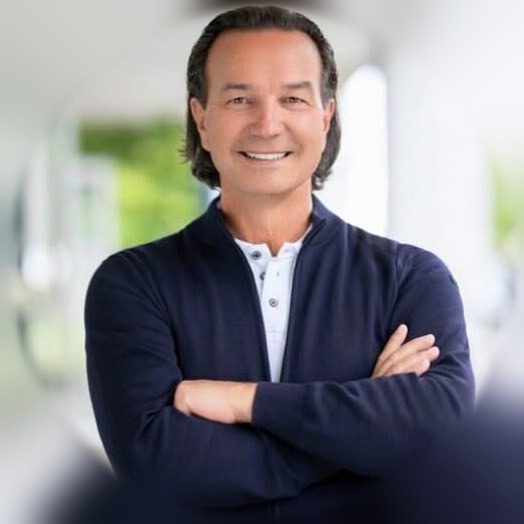
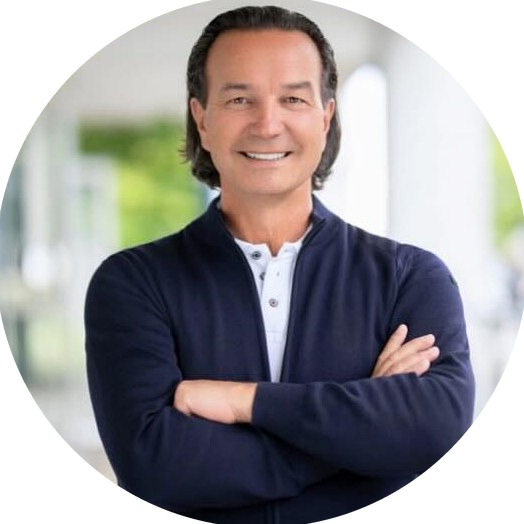
Portraet als Profilkreis mit scharfer Kante
Die weichgezeichnet fortgesetzten Ecken sahen matschig aus, und der
Rand blieb dadurch unscharf. Der Kreis ist die Vorlage: alles
ausserhalb ist jetzt weiss, beschnitten wird ueber border-radius 50%
im Browser. Sauberes Foto liegt bis Radius 266 px vor, beschnitten
wird bei 262 px, das Lila beginnt erst bei 271 px.

Gilt ueber .portraet fuer beide Stellen, Startseite und ueber.html.

diff --git a/css/base.css b/css/base.css
@@ -733,10 +733,15 @@ html[data-statisch="ja"] .messfeld__marke .punkt { animation: none; }
 @media (max-width: 60rem) { .makler { grid-template-columns: 1fr; } }
 
 /* ── Das Porträt ───────────────────────────────────────────────────
-   Ein Foto, gerahmt wie ein Foto: weiche Ecken, eine Haarlinie, der
-   gleiche sehr weiche Schatten wie am Messfeld. Vorher stand hier
-   ein Kreis mit blauem Balken darunter, der aussah, als sei das Bild
-   in die Seite gefallen.
+   Ein Profilkreis, mehr nicht: Die Vorlage ist ein rundes Profilbild,
+   und jeder Versuch, daraus ein Rechteck zu machen, endet an den
+   Ecken. Der Zwischenstand mit weichgezeichnet fortgesetztem
+   Hintergrund sah dort matschig aus. Jetzt wird der Kreis genommen,
+   wie er ist, und die Kante ist hart.
+
+   Der Beschnitt liegt bei Radius 262 (halbe Bildbreite), das Bild
+   trägt sauberes Foto bis 266. Die Kante entsteht also im Browser
+   und ist auf jedem Bildschirm scharf.
 
    aspect-ratio und object-fit stehen hier, damit ein späterer
    Austausch der Datei das Layout nicht verschiebt: Was nicht quadra-
@@ -749,10 +754,8 @@ html[data-statisch="ja"] .messfeld__marke .punkt { animation: none; }
   aspect-ratio: 1;
   object-fit: cover;
   object-position: 50% 22%;
-  border-radius: 10px;
-  border: 1px solid var(--linie-fein);
-  background: var(--flaeche-1);
-  box-shadow: var(--schatten);
+  border-radius: 50%;
+  box-shadow: 0 0 0 1px var(--linie-fein), var(--schatten);
 }
 .makler__bild { min-width: 0; }
 .makler__name { margin-bottom: var(--s-2); }

diff --git a/README.md b/README.md
@@ -193,16 +193,19 @@ selbst macht das nie. Belege: `docs/STILANALYSE-M2.md`, § 2.
 
 **Sein Porträt** steht als `assets/bilder/michael-spitzer.jpg` auf der
 Startseite (Abschnitt „Der Makler") und auf `ueber.html`, gerahmt von
-der Klasse `.portraet`: weiche Ecken, Haarlinie, quadratisch
-zugeschnitten.
+der Klasse `.portraet`: ein Profilkreis mit Haarlinie und sehr weichem
+Schatten.
 
-Die Datei kam als 524 × 524 px großes Profilbild mit lila Kreisrand,
-und dieser Rand stand als Keil in den Ecken der Seite. Er ist
-herausgerechnet: außerhalb des Kreises setzt jetzt der weichgezeichnete
-Bildhintergrund fort, innerhalb ist das Foto unangetastet. Das
-unbearbeitete Original liegt als
-`assets/bilder/michael-spitzer-original.jpg` daneben, falls die
-Rechnung je wiederholt werden muss.
+Die Datei kam als 524 × 524 px großes Profilbild, dessen lila
+Kreisrand als Keil in den Ecken stand. Alles außerhalb des Kreises ist
+jetzt weiß, die Kante entsteht im Browser über `border-radius: 50%`
+und ist deshalb auf jedem Bildschirm scharf. Sauberes Foto liegt bis
+Radius 266 px vor, beschnitten wird bei 262 px; das Lila beginnt erst
+bei 271 px und kann folglich nicht durchscheinen. Ein Zwischenstand,
+der die Ecken mit weichgezeichnetem Hintergrund auffüllte, ist wieder
+verworfen: Der Kreis ist die Vorlage, alles andere sieht dort matschig
+aus. Das unbearbeitete Original liegt als
+`assets/bilder/michael-spitzer-original.jpg` daneben.
 
 **Ein richtiges Porträtfoto sollte trotzdem kommen**, in höherer
 Auflösung und mit ruhigem Hintergrund: 524 px sind für die Größe, in
